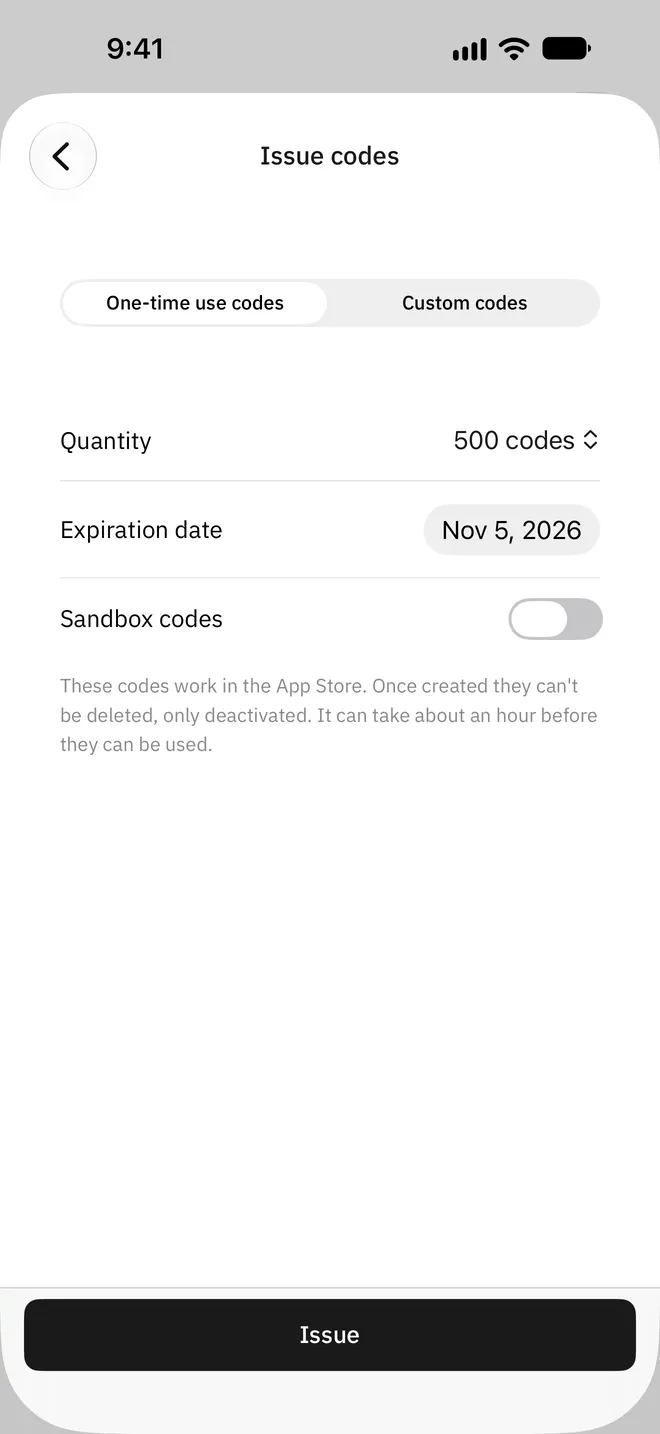
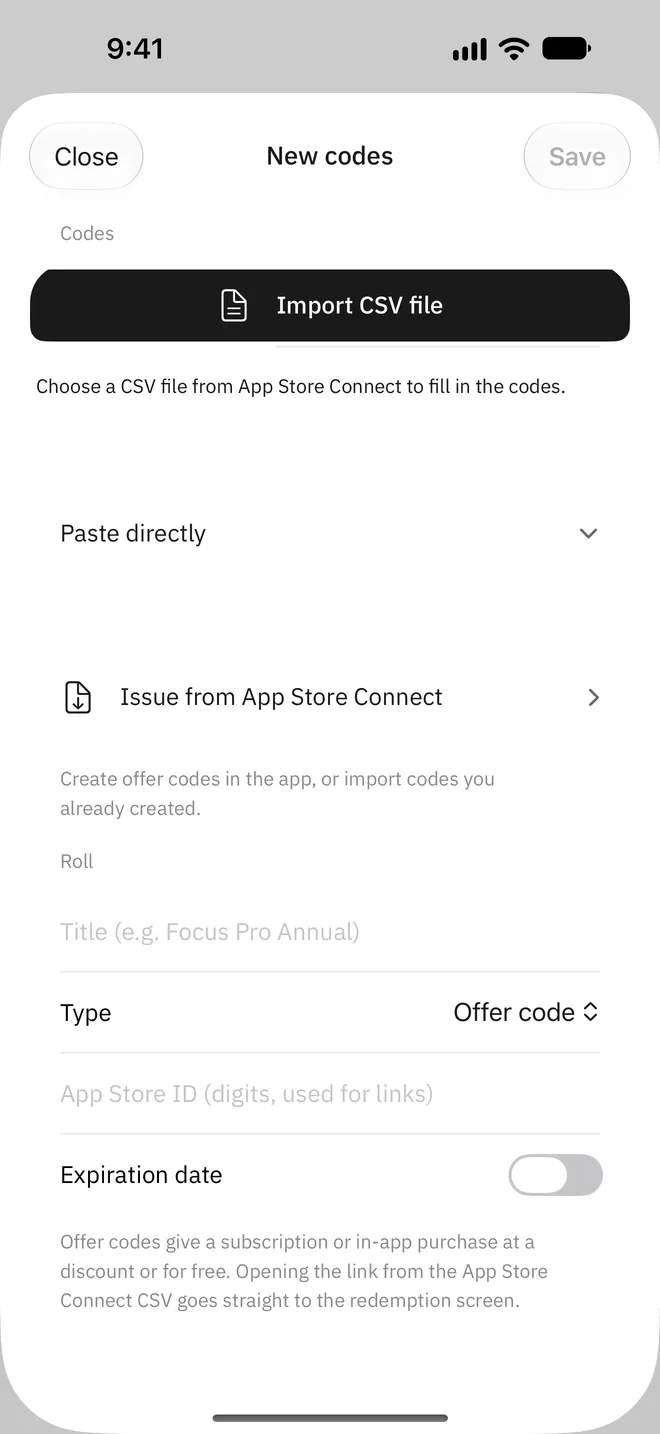
Codematic 준비판(게시 전): 영어 1절 그림을 New codes 화면으로 바꾼다

diff --git a/docs/ja/codematic/index.html b/docs/ja/codematic/index.html
@@ -394,7 +394,7 @@ html:is([lang=en],[lang=de],[lang=es],[lang=pt-BR]){--mw:34em;--fw:33em}
 </div>
 <div class="pano"><img src="/assets/codematic/store/en/01.webp" alt="The card shown after a code is handed out, with the code, a QR code, the time and the recipient."><img src="/assets/codematic/store/en/02.webp" alt="A roll&#x27;s screen while a code is being issued." loading="lazy"><img src="/assets/codematic/store/en/03.webp" alt="A roll&#x27;s screen, with the list of rolls and the codes left in each below." loading="lazy"></div>
 </section>
-<section class="feat"><figure class="feat-vis crop" style="--cy:-300px"><img src="/assets/codematic/shots/en/01.webp" alt="コードを発行する「Issue codes」の画面。「Quantity」「Expiration date」「Sandbox codes」が並び、下にコードを使えるようになる時期の説明があります。" loading="lazy"><figcaption>アプリ画面の拡大</figcaption></figure><div><p class="kick">01</p><h2>コードを入れる三つの方法</h2><p class="body">App Store Connect からダウンロードしたオファーコードの CSV をそのまま読み込みます。ファイルからアプリとコードの種類を読み取ります。ファイルがなければコードを貼り付けても構いません。貼り付けたコードのうち、すでに入れたものは除いて追加します。API キーを登録していれば、アプリで発行してそのまま追加します。</p><ul class="pts"><li>「Import CSV file」（CSV の読み込み）</li><li>「Paste directly」（コードの貼り付け）</li><li>入れたコードの重複を除外</li></ul></div></section>
+<section class="feat"><figure class="feat-vis crop" style="--cy:-179px"><img src="/assets/codematic/shots/en/01.webp" alt="コードを追加する「New codes」の画面。「Import CSV file」「Paste directly」「Issue from App Store Connect」が順に並んでいます。" loading="lazy"><figcaption>アプリ画面の拡大</figcaption></figure><div><p class="kick">01</p><h2>コードを入れる三つの方法</h2><p class="body">App Store Connect からダウンロードしたオファーコードの CSV をそのまま読み込みます。ファイルからアプリとコードの種類を読み取ります。ファイルがなければコードを貼り付けても構いません。貼り付けたコードのうち、すでに入れたものは除いて追加します。API キーを登録していれば、アプリで発行してそのまま追加します。</p><ul class="pts"><li>「Import CSV file」（CSV の読み込み）</li><li>「Paste directly」（コードの貼り付け）</li><li>入れたコードの重複を除外</li></ul></div></section>
 <section class="feat feat-rev"><figure class="feat-vis crop" style="--cy:-245px"><img src="/assets/codematic/shots/en/02.webp" alt="コードを渡したあとのカード。アプリ名、セット名、コード、QR コード、日時、受け取る人が書かれています。" loading="lazy"><figcaption>アプリ画面の拡大</figcaption></figure><div><p class="kick">02</p><h2>「Issue」（発行）を押すと次のコードがコピーされます</h2><p class="body">コピーしたコードは、渡したものとして記録されます。引き換えリンクでコピーするか、コードでコピーするか、両方をコピーするかは、セット（アプリでは「roll」）ごとに決めます。直接会って渡すときは QR コードの入ったカードを見せるか、画像として保存して送ります。</p><ul class="pts"><li>コードや引き換えリンクのコピー</li><li>QR カードと画像の保存</li><li>セットごとの残り数</li></ul></div></section>
 <section class="duo"><div class="card"><p class="kick">03</p><h2>誰に渡したかが残ります</h2><p class="body">渡すときに受け取る人の名前を書いておくと、コードごとに相手と日時が残ります。間違えて渡したコードは取り消せて、記録は CSV で書き出せます。セットとコードは iCloud に保存され、同じ Apple Account の iPhone と iPad で見られます。</p><ul class="pts"><li>渡した記録と取り消し</li><li>CSV の書き出し</li><li>iCloud 同期</li></ul></div><div class="card"><p class="kick">04</p><h2>App Store Connect から発行します</h2><p class="body">App Store Connect API キーを登録すると、アプリ内でオファーを作成してワンタイムコードを発行できます。発行したコードはそのままセットになります。キーがなくても、CSV と貼り付けでほかの機能は同じように使えます。</p><ul class="pts"><li>ワンタイムコードのバッチ発行</li><li>作成済みバッチの読み込み</li><li>新しいオファーの作成</li></ul></div></section>
 

diff --git a/docs/de/codematic/index.html b/docs/de/codematic/index.html
@@ -394,7 +394,7 @@ html:is([lang=en],[lang=de],[lang=es],[lang=pt-BR]){--mw:34em;--fw:33em}
 </div>
 <div class="pano"><img src="/assets/codematic/store/en/01.webp" alt="The card shown after a code is handed out, with the code, a QR code, the time and the recipient."><img src="/assets/codematic/store/en/02.webp" alt="A roll&#x27;s screen while a code is being issued." loading="lazy"><img src="/assets/codematic/store/en/03.webp" alt="A roll&#x27;s screen, with the list of rolls and the codes left in each below." loading="lazy"></div>
 </section>
-<section class="feat"><figure class="feat-vis crop" style="--cy:-300px"><img src="/assets/codematic/shots/en/01.webp" alt="Der Bildschirm „Issue codes“ zum Erstellen von Codes mit „Quantity“, „Expiration date“ und „Sandbox codes“, darunter ein Hinweis, ab wann die Codes nutzbar sind." loading="lazy"><figcaption>Nahansicht der App</figcaption></figure><div><p class="kick">01</p><h2>Drei Wege, Codes hinzuzufügen</h2><p class="body">Importieren Sie die CSV-Datei mit Angebotscodes, die Sie in App Store Connect laden, so wie sie ist. Codematic liest aus der Datei, um welche Art von Codes es geht und zu welcher App sie gehören. Ohne Datei fügen Sie die Codes als Text ein, dabei werden schon vorhandene Codes übersprungen. Mit einem API-Schlüssel erstellen Sie Codes in der App und übernehmen sie direkt.</p><ul class="pts"><li>„Import CSV file“ (CSV-Import)</li><li>„Paste directly“ (Codes einfügen)</li><li>Vorhandene Codes übersprungen</li></ul></div></section>
+<section class="feat"><figure class="feat-vis crop" style="--cy:-179px"><img src="/assets/codematic/shots/en/01.webp" alt="Der Bildschirm „New codes“ zum Hinzufügen von Codes, untereinander „Import CSV file“, „Paste directly“ und „Issue from App Store Connect“." loading="lazy"><figcaption>Nahansicht der App</figcaption></figure><div><p class="kick">01</p><h2>Drei Wege, Codes hinzuzufügen</h2><p class="body">Importieren Sie die CSV-Datei mit Angebotscodes, die Sie in App Store Connect laden, so wie sie ist. Codematic liest aus der Datei, um welche Art von Codes es geht und zu welcher App sie gehören. Ohne Datei fügen Sie die Codes als Text ein, dabei werden schon vorhandene Codes übersprungen. Mit einem API-Schlüssel erstellen Sie Codes in der App und übernehmen sie direkt.</p><ul class="pts"><li>„Import CSV file“ (CSV-Import)</li><li>„Paste directly“ (Codes einfügen)</li><li>Vorhandene Codes übersprungen</li></ul></div></section>
 <section class="feat feat-rev"><figure class="feat-vis crop" style="--cy:-245px"><img src="/assets/codematic/shots/en/02.webp" alt="Die Karte nach dem Weitergeben eines Codes mit App-Name, Name des Stapels, Code, QR-Code, Zeitpunkt und Empfänger." loading="lazy"><figcaption>Nahansicht der App</figcaption></figure><div><p class="kick">02</p><h2>Auf „Issue“ (Ausgeben) tippen, und der nächste Code ist kopiert</h2><p class="body">Der kopierte Code wird als verteilt markiert. Für jeden Stapel, in der App „roll“ genannt, legen Sie fest, ob der Einlöse-Link, der Code oder beides kopiert wird. Bei einem Treffen zeigen Sie die Karte mit dem QR-Code oder sichern sie als Bild und senden sie.</p><ul class="pts"><li>Code oder Einlöse-Link kopiert</li><li>QR-Karte, als Bild zu sichern</li><li>Verbleibende Codes je Stapel</li></ul></div></section>
 <section class="duo"><div class="card"><p class="kick">03</p><h2>Wer welchen Code bekommen hat</h2><p class="body">Tragen Sie beim Weitergeben den Namen des Empfängers ein, dann hält jeder Code fest, wer ihn wann bekommen hat. Einen versehentlich verteilten Code widerrufen Sie, und den Verlauf exportieren Sie als CSV. Stapel und Codes liegen in iCloud und erscheinen auf dem iPhone und iPad, die mit demselben Apple Account angemeldet sind.</p><ul class="pts"><li>Verlauf und Widerrufen</li><li>CSV-Export</li><li>iCloud-Synchronisierung</li></ul></div><div class="card"><p class="kick">04</p><h2>Codes über App Store Connect erstellen</h2><p class="body">Mit Ihrem API-Schlüssel für App Store Connect erstellen Sie Angebote und Einmalcodes direkt in der App. Erstellte Codes werden sofort zu einem Stapel. Ohne Schlüssel funktionieren CSV-Import und Einfügen genauso.</p><ul class="pts"><li>Einmalcodes in der App erstellt</li><li>Bereits erstellte Codes importiert</li><li>Neue Angebote</li></ul></div></section>
 

diff --git a/docs/es/codematic/index.html b/docs/es/codematic/index.html
@@ -394,7 +394,7 @@ html:is([lang=en],[lang=de],[lang=es],[lang=pt-BR]){--mw:34em;--fw:33em}
 </div>
 <div class="pano"><img src="/assets/codematic/store/en/01.webp" alt="The card shown after a code is handed out, with the code, a QR code, the time and the recipient."><img src="/assets/codematic/store/en/02.webp" alt="A roll&#x27;s screen while a code is being issued." loading="lazy"><img src="/assets/codematic/store/en/03.webp" alt="A roll&#x27;s screen, with the list of rolls and the codes left in each below." loading="lazy"></div>
 </section>
-<section class="feat"><figure class="feat-vis crop" style="--cy:-300px"><img src="/assets/codematic/shots/en/01.webp" alt="La pantalla «Issue codes» para generar códigos, con «Quantity», «Expiration date» y «Sandbox codes», y debajo una nota sobre cuándo se pueden usar los códigos." loading="lazy"><figcaption>Vista cercana de la app</figcaption></figure><div><p class="kick">01</p><h2>Tres formas de añadir códigos</h2><p class="body">Importa tal cual el CSV de códigos de oferta que descargas de App Store Connect. Codematic lee en el archivo el tipo de código y a qué app pertenecen. Si no tienes archivo, pega los códigos, y los que ya habías añadido se omiten. Con una clave de API añadida, genera códigos en la app y quedan añadidos al momento.</p><ul class="pts"><li>«Import CSV file» (importar CSV)</li><li>«Paste directly» (pegar códigos)</li><li>Códigos repetidos omitidos</li></ul></div></section>
+<section class="feat"><figure class="feat-vis crop" style="--cy:-179px"><img src="/assets/codematic/shots/en/01.webp" alt="La pantalla «New codes» para añadir códigos, con «Import CSV file», «Paste directly» e «Issue from App Store Connect», en ese orden." loading="lazy"><figcaption>Vista cercana de la app</figcaption></figure><div><p class="kick">01</p><h2>Tres formas de añadir códigos</h2><p class="body">Importa tal cual el CSV de códigos de oferta que descargas de App Store Connect. Codematic lee en el archivo el tipo de código y a qué app pertenecen. Si no tienes archivo, pega los códigos, y los que ya habías añadido se omiten. Con una clave de API añadida, genera códigos en la app y quedan añadidos al momento.</p><ul class="pts"><li>«Import CSV file» (importar CSV)</li><li>«Paste directly» (pegar códigos)</li><li>Códigos repetidos omitidos</li></ul></div></section>
 <section class="feat feat-rev"><figure class="feat-vis crop" style="--cy:-245px"><img src="/assets/codematic/shots/en/02.webp" alt="La tarjeta que aparece después de entregar un código, con el nombre de la app, el nombre del lote, el código, un código QR, la hora y el destinatario." loading="lazy"><figcaption>Vista cercana de la app</figcaption></figure><div><p class="kick">02</p><h2>Pulsa «Issue» (emitir) y se copia el siguiente código</h2><p class="body">El código copiado queda marcado como entregado. En cada lote, que la app llama «roll», eliges si se copia el enlace de canje, el código o ambos. En persona, enseña la tarjeta con su código QR o guárdala como imagen y envíala.</p><ul class="pts"><li>Copia del código o del enlace de canje</li><li>Tarjeta QR que se guarda como imagen</li><li>Códigos que quedan en cada lote</li></ul></div></section>
 <section class="duo"><div class="card"><p class="kick">03</p><h2>Quién recibió cada código</h2><p class="body">Escribe el nombre del destinatario al entregar un código y cada código guarda quién lo recibió y cuándo. Deshaz un código entregado por error y exporta el registro en CSV. Los lotes y los códigos se guardan en iCloud y aparecen en el iPhone y el iPad con la misma cuenta de Apple.</p><ul class="pts"><li>Registro de entregas y deshacer</li><li>Exportación a CSV</li><li>Sincronización con iCloud</li></ul></div><div class="card"><p class="kick">04</p><h2>Genera códigos desde App Store Connect</h2><p class="body">Añade tu clave de API de App Store Connect para crear ofertas y generar códigos de un solo uso en la app. Los códigos generados se convierten en un lote al momento. Sin clave, la importación de CSV y el pegado funcionan igual.</p><ul class="pts"><li>Códigos de un solo uso generados en la app</li><li>Códigos ya creados importados</li><li>Ofertas nuevas</li></ul></div></section>
 

diff --git a/docs/pt-br/codematic/index.html b/docs/pt-br/codematic/index.html
@@ -394,7 +394,7 @@ html:is([lang=en],[lang=de],[lang=es],[lang=pt-BR]){--mw:34em;--fw:33em}
 </div>
 <div class="pano"><img src="/assets/codematic/store/en/01.webp" alt="The card shown after a code is handed out, with the code, a QR code, the time and the recipient."><img src="/assets/codematic/store/en/02.webp" alt="A roll&#x27;s screen while a code is being issued." loading="lazy"><img src="/assets/codematic/store/en/03.webp" alt="A roll&#x27;s screen, with the list of rolls and the codes left in each below." loading="lazy"></div>
 </section>
-<section class="feat"><figure class="feat-vis crop" style="--cy:-300px"><img src="/assets/codematic/shots/en/01.webp" alt="A tela “Issue codes”, de gerar códigos, com “Quantity”, “Expiration date” e “Sandbox codes”, e abaixo uma nota sobre quando os códigos podem ser usados." loading="lazy"><figcaption>Vista aproximada do app</figcaption></figure><div><p class="kick">01</p><h2>Três formas de adicionar códigos</h2><p class="body">Importe como está o CSV de códigos de oferta que você baixa do App Store Connect. O Codematic lê no arquivo o tipo de código e de qual app eles são. Sem arquivo, cole os códigos, e os que você já adicionou são ignorados. Com uma chave de API adicionada, gere códigos no app e eles entram na hora.</p><ul class="pts"><li>“Import CSV file” (importar CSV)</li><li>“Paste directly” (colar códigos)</li><li>Códigos repetidos ignorados</li></ul></div></section>
+<section class="feat"><figure class="feat-vis crop" style="--cy:-179px"><img src="/assets/codematic/shots/en/01.webp" alt="A tela “New codes”, de adicionar códigos, com “Import CSV file”, “Paste directly” e “Issue from App Store Connect”, nessa ordem." loading="lazy"><figcaption>Vista aproximada do app</figcaption></figure><div><p class="kick">01</p><h2>Três formas de adicionar códigos</h2><p class="body">Importe como está o CSV de códigos de oferta que você baixa do App Store Connect. O Codematic lê no arquivo o tipo de código e de qual app eles são. Sem arquivo, cole os códigos, e os que você já adicionou são ignorados. Com uma chave de API adicionada, gere códigos no app e eles entram na hora.</p><ul class="pts"><li>“Import CSV file” (importar CSV)</li><li>“Paste directly” (colar códigos)</li><li>Códigos repetidos ignorados</li></ul></div></section>
 <section class="feat feat-rev"><figure class="feat-vis crop" style="--cy:-245px"><img src="/assets/codematic/shots/en/02.webp" alt="O cartão que aparece depois de entregar um código, com o nome do app, o nome do lote, o código, um código QR, a hora e o destinatário." loading="lazy"><figcaption>Vista aproximada do app</figcaption></figure><div><p class="kick">02</p><h2>Toque em “Issue” (emitir) e o próximo código é copiado</h2><p class="body">O código copiado fica marcado como entregue. Em cada lote, que o app chama de “roll”, você escolhe se copia o link de resgate, o código ou os dois. Pessoalmente, mostre o cartão com o código QR ou salve como imagem e envie.</p><ul class="pts"><li>Cópia do código ou do link de resgate</li><li>Cartão QR para salvar como imagem</li><li>Códigos restantes em cada lote</li></ul></div></section>
 <section class="duo"><div class="card"><p class="kick">03</p><h2>Quem recebeu cada código</h2><p class="body">Escreva o nome do destinatário ao entregar um código, e cada código guarda quem o recebeu e quando. Desfaça um código entregue por engano e exporte o registro em CSV. Os lotes e os códigos ficam guardados no iCloud e aparecem no iPhone e no iPad com a mesma Conta Apple.</p><ul class="pts"><li>Registro de entregas e desfazer</li><li>Exportação em CSV</li><li>Sincronização com o iCloud</li></ul></div><div class="card"><p class="kick">04</p><h2>Gere códigos pelo App Store Connect</h2><p class="body">Adicione sua chave de API do App Store Connect para criar ofertas e gerar códigos de uso único no app. Os códigos gerados viram um lote na hora. Sem chave, a importação de CSV e a colagem funcionam do mesmo jeito.</p><ul class="pts"><li>Códigos de uso único gerados no app</li><li>Códigos já criados importados</li><li>Novas ofertas</li></ul></div></section>
 

diff --git a/docs/zh-hans/codematic/index.html b/docs/zh-hans/codematic/index.html
@@ -394,7 +394,7 @@ html:is([lang=en],[lang=de],[lang=es],[lang=pt-BR]){--mw:34em;--fw:33em}
 </div>
 <div class="pano"><img src="/assets/codematic/store/en/01.webp" alt="The card shown after a code is handed out, with the code, a QR code, the time and the recipient."><img src="/assets/codematic/store/en/02.webp" alt="A roll&#x27;s screen while a code is being issued." loading="lazy"><img src="/assets/codematic/store/en/03.webp" alt="A roll&#x27;s screen, with the list of rolls and the codes left in each below." loading="lazy"></div>
 </section>
-<section class="feat"><figure class="feat-vis crop" style="--cy:-300px"><img src="/assets/codematic/shots/en/01.webp" alt="生成代码的“Issue codes”界面。依次是“Quantity”“Expiration date”和“Sandbox codes”，下方有一段关于代码何时可以使用的说明。" loading="lazy"><figcaption>应用界面放大</figcaption></figure><div><p class="kick">01</p><h2>添加代码的三种方式</h2><p class="body">直接导入从 App Store Connect 下载的优惠代码 CSV。App 会从文件中识别对应的 App 和代码类型。没有文件时，也可以直接粘贴代码，其中已经添加过的会被跳过。添加了 API 密钥后，可以在 App 内生成代码并直接加入。</p><ul class="pts"><li>“Import CSV file”（导入 CSV）</li><li>“Paste directly”（粘贴代码）</li><li>跳过已添加的代码</li></ul></div></section>
+<section class="feat"><figure class="feat-vis crop" style="--cy:-179px"><img src="/assets/codematic/shots/en/01.webp" alt="添加代码的“New codes”界面。依次是“Import CSV file”“Paste directly”和“Issue from App Store Connect”。" loading="lazy"><figcaption>应用界面放大</figcaption></figure><div><p class="kick">01</p><h2>添加代码的三种方式</h2><p class="body">直接导入从 App Store Connect 下载的优惠代码 CSV。App 会从文件中识别对应的 App 和代码类型。没有文件时，也可以直接粘贴代码，其中已经添加过的会被跳过。添加了 API 密钥后，可以在 App 内生成代码并直接加入。</p><ul class="pts"><li>“Import CSV file”（导入 CSV）</li><li>“Paste directly”（粘贴代码）</li><li>跳过已添加的代码</li></ul></div></section>
 <section class="feat feat-rev"><figure class="feat-vis crop" style="--cy:-245px"><img src="/assets/codematic/shots/en/02.webp" alt="送出代码后的卡片。卡片上有 App 名称、批次名称、代码、二维码、时间和领取人。" loading="lazy"><figcaption>应用界面放大</figcaption></figure><div><p class="kick">02</p><h2>按下“Issue”（发放），就会拷贝下一个代码</h2><p class="body">拷贝的代码会标记为已送出。每个批次（App 中称为“roll”）可以分别设定拷贝兑换链接、代码，或者两者都拷贝。当面送出时，可以出示带二维码的卡片，或者存成图片再发送。</p><ul class="pts"><li>拷贝代码或兑换链接</li><li>二维码卡片和图片存储</li><li>每个批次的剩余数量</li></ul></div></section>
 <section class="duo"><div class="card"><p class="kick">03</p><h2>记下送给了谁</h2><p class="body">送出时写上领取人的名字，每个代码就会留下领取人和时间。送错的代码可以撤销，记录可以导出为 CSV。批次和代码存储在 iCloud 中，登录同一 Apple 账户的 iPhone 和 iPad 上都能看到。</p><ul class="pts"><li>送出记录和撤销</li><li>导出 CSV</li><li>iCloud 同步</li></ul></div><div class="card"><p class="kick">04</p><h2>从 App Store Connect 直接生成</h2><p class="body">添加 App Store Connect API 密钥后，可以在 App 内创建优惠并生成一次性代码。生成的代码会直接成为一个批次。没有密钥时，导入 CSV 和粘贴代码等其他功能照常使用。</p><ul class="pts"><li>生成一次性代码</li><li>导入已创建的代码</li><li>创建新优惠</li></ul></div></section>
 

diff --git a/docs/zh-hant/codematic/index.html b/docs/zh-hant/codematic/index.html
@@ -394,7 +394,7 @@ html:is([lang=en],[lang=de],[lang=es],[lang=pt-BR]){--mw:34em;--fw:33em}
 </div>
 <div class="pano"><img src="/assets/codematic/store/en/01.webp" alt="The card shown after a code is handed out, with the code, a QR code, the time and the recipient."><img src="/assets/codematic/store/en/02.webp" alt="A roll&#x27;s screen while a code is being issued." loading="lazy"><img src="/assets/codematic/store/en/03.webp" alt="A roll&#x27;s screen, with the list of rolls and the codes left in each below." loading="lazy"></div>
 </section>
-<section class="feat"><figure class="feat-vis crop" style="--cy:-300px"><img src="/assets/codematic/shots/en/01.webp" alt="產生代碼的「Issue codes」畫面。依序是「Quantity」、「Expiration date」和「Sandbox codes」，下方有一段關於代碼何時可以使用的說明。" loading="lazy"><figcaption>應用畫面放大</figcaption></figure><div><p class="kick">01</p><h2>加入代碼的三種方式</h2><p class="body">直接匯入從 App Store Connect 下載的優惠代碼 CSV。App 會從檔案中辨識對應的 App 和代碼類型。沒有檔案時，也可以直接貼上代碼，其中已經加入過的會被略過。加入 API 金鑰後，可以在 App 內產生代碼並直接加入。</p><ul class="pts"><li>「Import CSV file」（匯入 CSV）</li><li>「Paste directly」（貼上代碼）</li><li>略過已加入的代碼</li></ul></div></section>
+<section class="feat"><figure class="feat-vis crop" style="--cy:-179px"><img src="/assets/codematic/shots/en/01.webp" alt="加入代碼的「New codes」畫面。依序是「Import CSV file」、「Paste directly」和「Issue from App Store Connect」。" loading="lazy"><figcaption>應用畫面放大</figcaption></figure><div><p class="kick">01</p><h2>加入代碼的三種方式</h2><p class="body">直接匯入從 App Store Connect 下載的優惠代碼 CSV。App 會從檔案中辨識對應的 App 和代碼類型。沒有檔案時，也可以直接貼上代碼，其中已經加入過的會被略過。加入 API 金鑰後，可以在 App 內產生代碼並直接加入。</p><ul class="pts"><li>「Import CSV file」（匯入 CSV）</li><li>「Paste directly」（貼上代碼）</li><li>略過已加入的代碼</li></ul></div></section>
 <section class="feat feat-rev"><figure class="feat-vis crop" style="--cy:-245px"><img src="/assets/codematic/shots/en/02.webp" alt="送出代碼後的卡片。卡片上有 App 名稱、批次名稱、代碼、QR Code、時間和領取人。" loading="lazy"><figcaption>應用畫面放大</figcaption></figure><div><p class="kick">02</p><h2>按下「Issue」（發放），就會拷貝下一個代碼</h2><p class="body">拷貝的代碼會標示為已送出。每個批次（App 中稱為「roll」）可以分別設定拷貝兌換連結、代碼，或者兩者都拷貝。當面送出時，可以出示帶 QR Code 的卡片，或者儲存成圖片再傳送。</p><ul class="pts"><li>拷貝代碼或兌換連結</li><li>QR Code 卡片和圖片儲存</li><li>每個批次的剩餘數量</li></ul></div></section>
 <section class="duo"><div class="card"><p class="kick">03</p><h2>記下送給了誰</h2><p class="body">送出時寫上領取人的名字，每個代碼就會留下領取人和時間。送錯的代碼可以還原，記錄可以輸出為 CSV。批次和代碼儲存在 iCloud 中，登入同一 Apple 帳號的 iPhone 和 iPad 上都能看到。</p><ul class="pts"><li>送出記錄和還原</li><li>輸出 CSV</li><li>iCloud 同步</li></ul></div><div class="card"><p class="kick">04</p><h2>從 App Store Connect 直接產生</h2><p class="body">加入 App Store Connect API 金鑰後，可以在 App 內建立優惠並產生一次性代碼。產生的代碼會直接成為一個批次。沒有金鑰時，匯入 CSV 和貼上代碼等其他功能照常使用。</p><ul class="pts"><li>產生一次性代碼</li><li>匯入已建立的代碼</li><li>建立新優惠</li></ul></div></section>
 

diff --git a/docs/en/codematic/index.html b/docs/en/codematic/index.html
@@ -394,7 +394,7 @@ html:is([lang=en],[lang=de],[lang=es],[lang=pt-BR]){--mw:34em;--fw:33em}
 </div>
 <div class="pano"><img src="/assets/codematic/store/en/01.webp" alt="The card shown after a code is handed out, with the code, a QR code, the time and the recipient."><img src="/assets/codematic/store/en/02.webp" alt="A roll&#x27;s screen while a code is being issued." loading="lazy"><img src="/assets/codematic/store/en/03.webp" alt="A roll&#x27;s screen, with the list of rolls and the codes left in each below." loading="lazy"></div>
 </section>
-<section class="feat"><figure class="feat-vis crop" style="--cy:-300px"><img src="/assets/codematic/shots/en/01.webp" alt="The Issue codes screen, with Quantity, Expiration date and Sandbox codes, and a note below about when the codes can be used." loading="lazy"><figcaption>Close view of the app</figcaption></figure><div><p class="kick">01</p><h2>Three ways to add codes</h2><p class="body">Import the offer code CSV you download from App Store Connect as it is. Codematic reads the code type and which app the codes are for from the file. Without a file, paste the codes in, and any you have already added are skipped. With an API key added, issue codes in the app and they go straight in.</p><ul class="pts"><li>Import CSV file</li><li>Paste directly</li><li>Duplicates skipped</li></ul></div></section>
+<section class="feat"><figure class="feat-vis crop" style="--cy:-179px"><img src="/assets/codematic/shots/en/01.webp" alt="The New codes screen, with Import CSV file, Paste directly and Issue from App Store Connect in order." loading="lazy"><figcaption>Close view of the app</figcaption></figure><div><p class="kick">01</p><h2>Three ways to add codes</h2><p class="body">Import the offer code CSV you download from App Store Connect as it is. Codematic reads the code type and which app the codes are for from the file. Without a file, paste the codes in, and any you have already added are skipped. With an API key added, issue codes in the app and they go straight in.</p><ul class="pts"><li>Import CSV file</li><li>Paste directly</li><li>Duplicates skipped</li></ul></div></section>
 <section class="feat feat-rev"><figure class="feat-vis crop" style="--cy:-245px"><img src="/assets/codematic/shots/en/02.webp" alt="The card shown after a code is handed out, with the app name, the roll name, the code, a QR code, the time and the recipient." loading="lazy"><figcaption>Close view of the app</figcaption></figure><div><p class="kick">02</p><h2>Tap Issue and the next code is copied</h2><p class="body">The copied code is marked as handed out. Each roll can copy the redeem link, the code, or both. In person, show the card with its QR code, or save it as an image and send it.</p><ul class="pts"><li>Code or redeem link copied</li><li>A QR card you can save as an image</li><li>Codes left in each roll</li></ul></div></section>
 <section class="duo"><div class="card"><p class="kick">03</p><h2>Who got which code</h2><p class="body">Add the recipient&#x27;s name when you hand a code out, and each code keeps who got it and when. Undo a code handed out by mistake, and export the record as CSV. Rolls and codes are stored in iCloud and show up on the iPhone and iPad signed in to the same Apple Account.</p><ul class="pts"><li>Handed out list and Undo</li><li>Export as CSV</li><li>iCloud sync</li></ul></div><div class="card"><p class="kick">04</p><h2>Issue from App Store Connect</h2><p class="body">Add your App Store Connect API key to create offers and issue one-time use codes in the app. Issued codes become a roll right away. Without a key, CSV import and pasting work the same.</p><ul class="pts"><li>One-time use code batches</li><li>Existing batches imported</li><li>New offers</li></ul></div></section>
 
